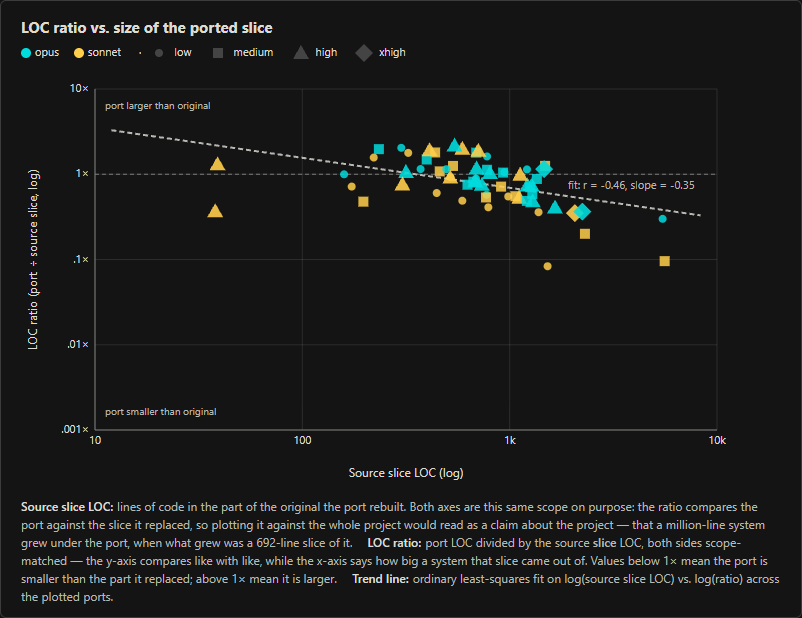
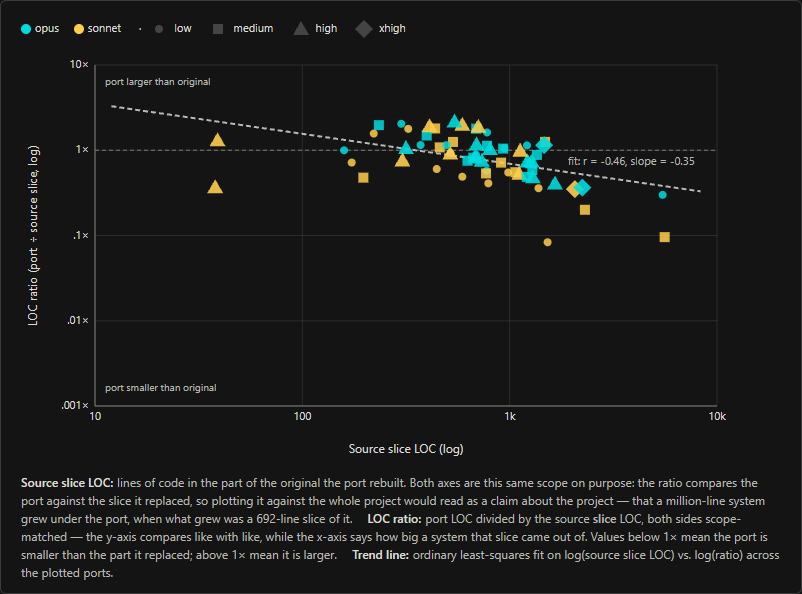
Give figures the same header the tables use
The chart title was baked into each PNG, so a figure read as a bare "FIGURE N"
label above an image that carried its own title, while a table carried a label
and an h4. Hiding the card's h2 before the screenshot moves the title into the
post, where both take viz-title + h4 and the title is selectable text in the
page's typeface. Cards close up by 24px with the title gone.

audit-post.js now checks each h4 against the title of the chart rendered into
that file, alongside the existing alt-text check.

diff --git a/blog-technical/posts/we-ported-65-oss-projects.html b/blog-technical/posts/we-ported-65-oss-projects.html
@@ -204,6 +204,7 @@
 <div class="wide">
 <figure class="viz" style="--fig-w:802px">
   <p class="viz-title">Figure 1</p>
+  <h4>Benchmark answer parity vs. LOC ratio</h4>
   <div class="plot-wrap"><div class="plate plate--flush">
     <img src="charts/02-parity-vs-loc-ratio.png" alt="Benchmark answer parity vs. LOC ratio">
   </div></div>
@@ -225,6 +226,7 @@
 <div class="wide">
 <figure class="viz" style="--fig-w:802px">
   <p class="viz-title">Figure 2</p>
+  <h4>Efficiency by model and effort</h4>
   <div class="plot-wrap"><div class="plate plate--flush">
     <img src="charts/06-efficiency-model-effort.png" alt="Efficiency by model and effort">
   </div></div>
@@ -240,6 +242,7 @@
 <div class="wide">
 <figure class="viz" style="--fig-w:802px">
   <p class="viz-title">Figure 3</p>
+  <h4>Tokens per port by model and effort</h4>
   <div class="plot-wrap"><div class="plate plate--flush">
     <img src="charts/07-tokens-model-effort.png" alt="Tokens per port by model and effort">
   </div></div>
@@ -257,6 +260,7 @@
 <div class="wide">
 <figure class="viz" style="--fig-w:802px">
   <p class="viz-title">Figure 4</p>
+  <h4>Complexity-adjusted efficiency vs. size of the ported slice</h4>
   <div class="plot-wrap"><div class="plate plate--flush">
     <img src="charts/08-complexity-adjusted.png" alt="Complexity-adjusted efficiency vs. size of the ported slice">
   </div></div>
@@ -303,6 +307,7 @@
 <div class="wide">
 <figure class="viz" style="--fig-w:802px">
   <p class="viz-title">Figure 5</p>
+  <h4>The aggregate cost of adding guardrails</h4>
   <div class="plot-wrap"><div class="plate plate--flush">
     <img src="charts/09-guardrail-cost.png" alt="The aggregate cost of adding guardrails">
   </div></div>
@@ -320,6 +325,7 @@
 <div class="wide">
 <figure class="viz" style="--fig-w:802px">
   <p class="viz-title">Figure 6</p>
+  <h4>Tokens used vs. steps taken</h4>
   <div class="plot-wrap"><div class="plate plate--flush">
     <img src="charts/05-tokens-vs-steps.png" alt="Tokens used vs. steps taken">
   </div></div>
@@ -339,6 +345,7 @@
 <div class="wide">
 <figure class="viz" style="--fig-w:802px">
   <p class="viz-title">Figure 7</p>
+  <h4>LOC ratio vs. size of the ported slice</h4>
   <div class="plot-wrap"><div class="plate plate--flush">
     <img src="charts/01-loc-ratio-vs-size.png" alt="LOC ratio vs. size of the ported slice">
   </div></div>
@@ -479,6 +486,7 @@
 <div class="wide">
 <figure class="viz" style="--fig-w:802px">
   <p class="viz-title">Figure 8</p>
+  <h4>Tokens used vs. lines of code saved</h4>
   <div class="plot-wrap"><div class="plate plate--flush">
     <img src="charts/04-tokens-vs-loc-saved.png" alt="Tokens used vs. lines of code saved">
   </div></div>
@@ -561,6 +569,7 @@
 <div class="wide">
 <figure class="viz" style="--fig-w:802px">
   <p class="viz-title">Figure 9</p>
+  <h4>Performance ratio vs. LOC ratio</h4>
   <div class="plot-wrap"><div class="plate plate--flush">
     <img src="charts/03-performance-vs-loc-ratio.png" alt="Performance ratio vs. LOC ratio">
   </div></div>
